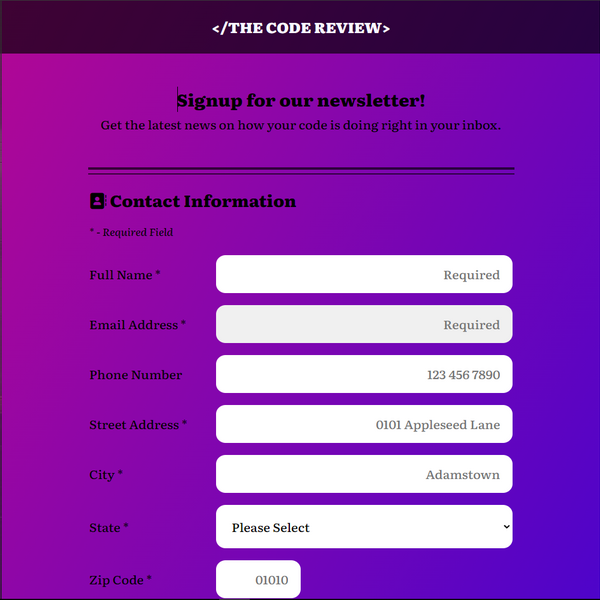
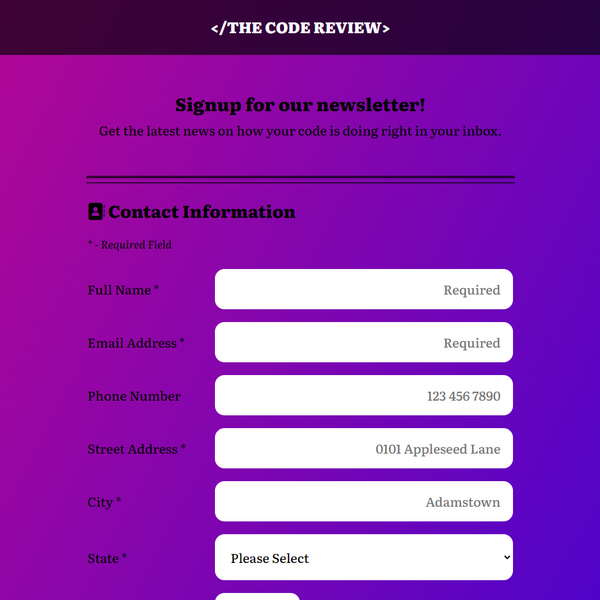
fixing some responsivity issues

diff --git a/index.html b/index.html
@@ -175,9 +175,6 @@
       <img class="about-line" src="/img/border/line.png" alt>
 
       <ul class="projects-1-list">
-        <!-- <button class="visit-btn">VISIT</button> -->
-        <!-- https://skeetersdevjourney.github.io/Project-08-EmployeeDirectory/ -->
-
         <li class="project proj-1">
           <div class="proj-text">
             <h4 class="proj-name">EMPLOYEE DIRECTORY</h4>
@@ -242,18 +239,15 @@
       
 
       <ul class="projects-2-list">
-        <!-- <button class="visit-btn">VISIT</button> -->
-        <!-- https://skeetersdevjourney.github.io/Project-08-EmployeeDirectory/ -->
-
         <li class="project proj-4">
           <div class="proj-text">
             <h4 class="proj-name">PHOTO GALLERY</h4>
             <p class="proj-desc">Allows the user to filter through images.</p>
             <p class="proj-time">Build Time: 5 Days</p>
-            <h4 class="feature-header">FEATURES:</h4>
+            <h4 class="feature-header">LEARNING GOALS:</h4>
             <ul class="proj-bullet-list">
-              <li class="proj-bullet">Search Filter</li>
-              <li class="proj-bullet">Lightbox</li>
+              <li class="proj-bullet">Using Plugins</li>
+              <li class="proj-bullet">Creating a Search Filter</li>
             </ul>
           </div>
         </li>
@@ -263,9 +257,12 @@
             <h4 class="proj-name">STYLE GUIDE</h4>
             <p class="proj-desc">A styling guide which served as an introduction to SASS.</p>
             <p class="proj-time">Build Time: 3 Days</p>
-            <h4 class="feature-header">FEATURES:</h4>
+            <h4 class="feature-header">LEARNING GOALS:</h4>
             <ul class="proj-bullet-list">
-              <li class="proj-bullet">Intro to SASS Variables and Mixins</li>
+              <li class="proj-bullet">SASS Basics</li>
+              <li class="proj-bullet">SASS File Structure</li>
+              <li class="proj-bullet">Run SASS Commands</li>
+              <li class="proj-bullet">Variables/Mixins</li>
             </ul>
           </div>
         </li>
@@ -275,10 +272,11 @@
             <h4 class="proj-name">REGISTRATION FORM</h4>
             <p class="proj-desc">A registration form for The Code Review's notification service.</p>
             <p class="proj-time">Build Time: 3 Days</p>
-            <h4 class="feature-header">FEATURES:</h4>
+            <h4 class="feature-header">LEARNING GOALS:</h4>
             <ul class="proj-bullet-list">
               <li class="proj-bullet">Intro to Forms</li>
               <li class="proj-bullet">Form Validation</li>
+              <li class="proj-bullet">Understanding Input Types</li>
             </ul>
           </div>
         </li>
@@ -288,9 +286,11 @@
             <h4 class="proj-name">RESPONSIVE DESIGN</h4>
             <p class="proj-desc">An example portfolio project which served as an introduction to the mobile-first design approach.</p>
             <p class="proj-time">Build Time: 2 Days</p>
-            <h4 class="feature-header">FEATURES:</h4>
+            <h4 class="feature-header">LEARNING GOALS:</h4>
             <ul class="proj-bullet-list">
               <li class="proj-bullet">Intro to Responsive Design</li>
+              <li class="proj-bullet">Understand Breakpoints</li>
+              <li class="proj-bullet">Utilize Google Fonts</li>
             </ul>
           </div>
         </li>
@@ -300,9 +300,13 @@
             <h4 class="proj-name">EXAMPLE PROFILE PAGE</h4>
             <p class="proj-desc">My first project.</p>
             <p class="proj-time">Build Time: 4 Days</p>
-            <h4 class="feature-header">FEATURES:</h4>
+            <h4 class="feature-header">LEARNING GOALS:</h4>
             <ul class="proj-bullet-list">
               <li class="proj-bullet">Intro to HTML and CSS</li>
+              <li class="proj-bullet">Create Links to Socials</li>
+              <li class="proj-bullet">Create a GitHub Repository</li>
+              <li class="proj-bullet">Ensure Code Validation</li>
+              <li class="proj-bullet">Manage Image Sizes</li>
             </ul>
           </div>
         </li>

diff --git a/css/style.css b/css/style.css
@@ -369,6 +369,7 @@ svg {
 Main Grid Layout
 ----------------------------------*/
 main {
+  width: 100%;
   display: grid;
   grid-template-columns: 100%;
   grid-template-rows: 100vh 300px 100vh 300px 100vh 300px 100vh 300px 100vh;
@@ -936,7 +937,6 @@ Base Layout of Project Sections
 .projects-container {
   position: relative;
   margin-top: 50px;
-  max-width: 1100px;
   display: flex;
   justify-content: flex-start;
   align-items: center;
@@ -1024,11 +1024,14 @@ h4 {
   .projects-container {
     margin: 70px 50px 0;
   }
+
+  .project-anim {
+    height: 60px;
+  }
 }
 @media (min-width: 1024px) {
   .projects-container {
-    margin: 100px auto 0;
-    align-items: flex-start;
+    margin-top: 100px;
   }
 
   .projects-title-1,
@@ -1046,12 +1049,7 @@ h4 {
   }
 
   .projects-1-list {
-    align-self: center;
     box-shadow: 0 0 15px 10px rgba(0, 0, 0, 0.7);
-  }
-
-  .project {
-    height: 45vh;
   }
 
   .proj-text, .section-desc {
@@ -1060,6 +1058,13 @@ h4 {
 
   .proj-text {
     transform: translate(-50%, 25vh);
+  }
+}
+@media (min-width: 1200px) {
+  .projects-container {
+    width: 100%;
+    max-width: 1200px;
+    margin: 100px auto 0;
   }
 }
 /*----------------------------------
@@ -1138,6 +1143,11 @@ Project List Interaction/Anims
   display: none;
 }
 
+@media (min-width: 1024px) {
+  .project {
+    height: 45vh;
+  }
+}
 /*----------------------------------
 Projects Background Images
 ----------------------------------*/
@@ -1160,31 +1170,31 @@ Projects Background Images
 }
 
 .proj-4 {
-  background-image: url("/img/projects/directory.png");
+  background-image: url("/img/projects/gallery.png");
   background-size: cover;
   background-position: top left;
 }
 
 .proj-5 {
-  background-image: url("/img/projects/dashboard.png");
+  background-image: url("/img/projects/guide.png");
   background-size: cover;
-  background-position: center;
+  background-position: top center;
 }
 
 .proj-6 {
-  background-image: url("/img/projects/wordgame.png");
+  background-image: url("/img/projects/registration.png");
   background-size: cover;
-  background-position: center;
+  background-position: top center;
 }
 
 .proj-7 {
-  background-image: url("/img/projects/dashboard.png");
+  background-image: url("/img/projects/responsive.png");
   background-size: cover;
-  background-position: center;
+  background-position: top center;
 }
 
 .proj-8 {
-  background-image: url("/img/projects/directory.png");
+  background-image: url("/img/projects/profile.png");
   background-size: cover;
   background-position: top right;
 }
@@ -1308,7 +1318,7 @@ Night Theme Overlay
   position: absolute;
   z-index: 200;
   width: 100%;
-  height: calc(500vh + 1000px);
+  height: calc(500vh + 1200px);
   background-color: #fff;
   mix-blend-mode: difference;
 }

diff --git a/scss/components/_project-bgs.scss b/scss/components/_project-bgs.scss
@@ -21,27 +21,27 @@ Projects Background Images
 }
 
 .proj-4 {
-  background-image: url('/img/projects/directory.png');
+  background-image: url('/img/projects/gallery.png');
   background-size: cover;
   background-position: top left;
 }
 .proj-5 {
-  background-image: url('/img/projects/dashboard.png');
+  background-image: url('/img/projects/guide.png');
   background-size: cover;
-  background-position: center;
+  background-position: top center;
 }
 .proj-6 {
-  background-image: url('/img/projects/wordgame.png');
+  background-image: url('/img/projects/registration.png');
   background-size: cover;
-  background-position: center;
+  background-position: top center;
 }
 .proj-7 {
-  background-image: url('/img/projects/dashboard.png');
+  background-image: url('/img/projects/responsive.png');
   background-size: cover;
-  background-position: center;
+  background-position: top center;
 }
 .proj-8 {
-  background-image: url('/img/projects/directory.png');
+  background-image: url('/img/projects/profile.png');
   background-size: cover;
   background-position: top right;
 }

diff --git a/scss/layout/_project-base.scss b/scss/layout/_project-base.scss
@@ -7,7 +7,7 @@ Base Layout of Project Sections
 .projects-container {
   position: relative;
   margin-top: 50px;
-  max-width: 1100px;
+  // max-width: 1100px;
   @include flexo(
     flex,
     flex-start,
@@ -99,15 +99,21 @@ h4 {
 }
 
 @include mq('med') {
+
   .projects-container {
     margin: 70px 50px 0;
+  }
+
+  .project-anim {
+    height: 60px;
   }
 }
 
 @include mq('lg') {
+
   .projects-container {
-    margin: 100px auto 0;
-    align-items: flex-start;
+    margin-top: 100px;
+
   }
 
   .projects-title-1,
@@ -127,19 +133,23 @@ h4 {
   }
 
   .projects-1-list {
-    align-self: center;
     box-shadow: 0 0 15px 10px rgba(0,0,0,.7);   
-  }
-
-  .project {
-    height: 45vh;
   }
 
   .proj-text, .section-desc {
     font-size: 1.3em;
   }
+
   .proj-text {
     transform: translate(-50%, 25vh);
     
+  }
+}
+
+@include mq('xl') {
+  .projects-container {
+    width: 100%;
+    max-width: 1200px;
+    margin: 100px auto 0;
   }
 }

diff --git a/scss/components/_night-theme.scss b/scss/components/_night-theme.scss
@@ -9,7 +9,7 @@ Night Theme Overlay
   position: absolute;
   z-index: 200;
   width: 100%;
-  height: calc((100vh * 5) + (250px * 4));
+  height: calc((100vh * 5) + ($breakLength * 4));
   background-color: #fff;
   mix-blend-mode: difference;
 }

diff --git a/scss/components/_project-interact.scss b/scss/components/_project-interact.scss
@@ -89,3 +89,9 @@ Project List Interaction/Anims
 .indicator2 {
   display: none;
 }
+
+@include mq('lg') {
+  .project {
+    height: 45vh;
+  }
+}

diff --git a/scss/layout/_main-grid.scss b/scss/layout/_main-grid.scss
@@ -5,6 +5,7 @@ Main Grid Layout
 @use "../util" as *;
 
 main {
+  width: 100%;
   @include grido(
     100%,
     100vh $breakLength 
